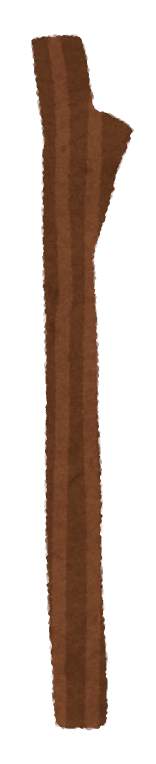
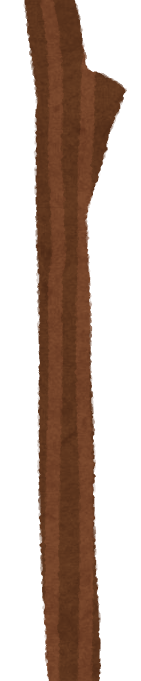
docs: add development documentation and lane graphics
- Add CLAUDE.md for Claude Code guidance
- Add AGENTS.md with project guidelines
- Update beetle positioning with track center system
- Add new lane background graphic (plant_eda1_lane.png)
- Adjust opacity and background references

🤖 Generated with Claude Code

Changed region(s): [[0.1702, 0.0, 0.9078, 1.0], [0.539, 0.185, 0.5674, 0.2159]]

diff --git a/index.html b/index.html
@@ -16,7 +16,7 @@
       --bg: #0f2218;
       --text: #f6fff2;
       --beetle-run-buffer: 96px;
-      --beetle-groundline: 0.36;
+      --beetle-track-center: 0.465;
     }
 
     body {
@@ -199,11 +199,11 @@
       content: "";
       position: absolute;
       inset: 0;
-      background-image: url("haikei/plant_eda1_horizontal.png");
+      background-image: url("haikei/plant_eda1_lane.png");
       background-repeat: no-repeat;
       background-size: 100% 100%;
       background-position: center;
-      opacity: 0.9;
+      opacity: 0.94;
       z-index: 0;
     }
 
@@ -334,7 +334,7 @@
       :root {
         --lane-height: 200px;
         --beetle-size: 56px;
-        --beetle-groundline: 0.45;
+        --beetle-track-center: 0.48;
       }
 
       .game {
@@ -439,7 +439,7 @@
         laneLabel: "FOREST",
         idleMeaning: "プログラミング用語が表示されます。",
         placeholder: "例: recursion / sandbox / websocket",
-        groundline: "0.36",
+        trackCenter: "0.465",
         words: [
           "algorithm",
           "binary",
@@ -536,7 +536,7 @@
         laneLabel: "WORKSHOP",
         idleMeaning: "UNIXコマンドが表示されます。",
         placeholder: "例: ls / grep / systemctl",
-        groundline: "0.36",
+        trackCenter: "0.465",
         words: [
           "ls",
           "cd",
@@ -687,7 +687,7 @@
       if (modeDescription) {
         modeDescription.textContent = `${currentPool.label} — ${currentPool.description}`;
       }
-      document.documentElement.style.setProperty("--beetle-groundline", currentPool.groundline || "0.42");
+      document.documentElement.style.setProperty("--beetle-track-center", currentPool.trackCenter || "0.465");
       typeInput.placeholder = currentPool.placeholder;
     }
 
@@ -828,12 +828,11 @@
 
       if (TRACKS === 1) {
         const rootStyle = getComputedStyle(document.documentElement);
-        const rawGroundline = rootStyle.getPropertyValue("--beetle-groundline").trim();
-        const groundRatio = rawGroundline ? Number.parseFloat(rawGroundline) : 0.46;
-        const safeGroundRatio = Number.isFinite(groundRatio) ? groundRatio : 0.46;
-        const surfaceY = laneHeight * safeGroundRatio;
-        const footAllowance = beetleHeight * 0.18;
-        return surfaceY - beetleHeight + footAllowance;
+        const rawCenter = rootStyle.getPropertyValue("--beetle-track-center").trim();
+        const parsedCenter = rawCenter ? Number.parseFloat(rawCenter) : 0.465;
+        const safeCenter = Number.isFinite(parsedCenter) ? Math.min(Math.max(parsedCenter, 0), 1) : 0.465;
+        const centerY = laneHeight * safeCenter;
+        return centerY - beetleHeight / 2;
       }
 
       const slotHeight = laneHeight / TRACKS;

diff --git a/CLAUDE.md b/CLAUDE.md
@@ -1,0 +1,87 @@
+# CLAUDE.md
+
+This file provides guidance to Claude Code (claude.ai/code) when working with code in this repository.
+
+## Project Overview
+
+**Kabutomushi-da (カブトムシ打)** is a browser-based typing game where players type programming terms or UNIX commands as beetles (kabutomushi) carry them across the screen. The entire application is self-contained in a single `index.html` file with inline CSS and JavaScript.
+
+## Development Commands
+
+```bash
+# Run locally - no build required
+# Option 1: Direct browser
+open index.html
+
+# Option 2: Python server (for browser security features)
+python3 -m http.server 8000
+# Then visit: http://localhost:8000/index.html
+
+# Interactive testing with Playwright
+npx playwright open index.html      # Manual testing
+npx playwright codegen index.html    # Generate test scripts
+```
+
+## Architecture & Core Concepts
+
+### Game State Management
+The game uses a simple state machine with these core variables:
+- `timeLeft`: 60-second countdown timer
+- `activeBeetles`: Map tracking beetles on screen (only one active at a time)
+- `currentBeetleId`: Enforces single-beetle constraint for focused gameplay
+- Two game modes: `programming` (42 terms) and `unix` (45 commands)
+
+### Key Architectural Patterns
+
+1. **Single-File Architecture**: All HTML, CSS, and JavaScript live in `index.html` for zero-dependency deployment
+2. **Event-Driven Design**: Game loop via `setInterval`, beetle lifecycle via `setTimeout`, CSS animations for movement
+3. **Word Pool System**: Each mode has words[] array and meanings{} object mapping terms to Japanese explanations
+4. **Visual Positioning**: Beetles follow `--beetle-track-center` CSS variable (currently 0.465) for vertical alignment with background trunk
+
+### Critical Functions & Flow
+
+```javascript
+// Core game loop
+startGame() → spawnBeetle() → handleTyping() → updateScore()/handleMiss()
+                    ↓
+            removeBeetle() → checkGameEnd()
+```
+
+### File Organization
+- `index.html`: Complete application (UI, styles, game logic)
+- `assets/`: 7 beetle sprites (kabutomushi.png + 6 variants)
+- `haikei/`: Background images (tree trunk with lane overlay)
+- `images/`: Screenshots and visual references
+- `AGENTS.md`: Development guidelines
+
+### Recent Changes Context
+- Positioning system refactored from `--beetle-groundline` to `--beetle-track-center`
+- Added mode selector for switching between programming terms and UNIX commands
+- Beetles now center vertically using `centerY - beetleHeight / 2` calculation
+- Background uses `plant_eda1_lane.png` for visual beetle pathway
+
+## Testing & Quality
+
+**Manual Testing Checklist:**
+1. Both game modes spawn correct word pools
+2. Beetle alignment with tree trunk visual
+3. Score calculation includes combo bonuses
+4. Miss counter stops game at 5
+5. Timer countdown and game over states
+6. Mobile responsive layout
+
+**Before Publishing:**
+- Test in both modes
+- Verify beetle path alignment
+- Capture screenshot for `images/` if UI changes
+- Maintain 2-space indentation
+- Keep CSS properties descriptive (`--beetle-track-center`)
+
+## Commit Style
+
+Follow existing pattern: `verb: description`
+- `feat:` new features
+- `style:` visual changes  
+- `fix:` bug fixes
+
+Example: `style: raise beetle flight path`

diff --git a/AGENTS.md b/AGENTS.md
@@ -1,0 +1,29 @@
+# Repository Guidelines
+
+## Project Structure & Module Organization
+- `index.html`: Single-page Kabutomushi typing game that renders UI, styles, assets, and gameplay logic inline.
+- `search.html`: Lightweight search helper page used for asset/browser experiments.
+- `assets/` & `haikei/`: Beetle sprites and background illustrations; keep filenames descriptive and reuse existing dimensions for smooth animation.
+- `images/`: Reference mockups and captured screenshots for visual QA; add new evidence here when updating layout.
+
+## Build, Test, and Development Commands
+- Run locally without tooling by opening `index.html` in a browser.
+- Launch a static server when testing browser security features: `python3 -m http.server 8000` (then visit `http://localhost:8000/index.html`).
+- Capture interactive regressions with Playwright: `npx playwright open index.html` for ad‑hoc manual flows or `npx playwright codegen index.html` to script repeatable checks.
+
+## Coding Style & Naming Conventions
+- HTML/CSS/JS all live in `index.html`; keep indentation at two spaces and favor multi-line CSS rules for readability.
+- Prefer descriptive CSS custom properties (e.g., `--beetle-groundline`) and update related JS helpers when new tokens are introduced.
+- JavaScript uses `const`/`let`, arrow functions only where brevity helps, and camelCase identifiers (`spawnBeetle`, `applyModeToUI`).
+- Asset filenames should remain lowercase with hyphens or underscores; reuse PNG format to match existing pipeline.
+
+## Testing Guidelines
+- No automated unit suite yet; rely on manual smoke tests in both “プログラミング用語” and “UNIXコマンド” modes.
+- Before publishing, validate beetle path alignment, word cycling, miss counter, and input focus by launching Playwright (`npx playwright open index.html`) and capturing a screenshot for the `images/` folder when UI changes.
+- Document any new manual test scripts or commands in this file to keep future agents aligned.
+
+## Commit & Pull Request Guidelines
+- Follow the existing history: concise, imperative subject lines under 60 characters (e.g., `Add mode selector with UNIX command pool`).
+- Group related HTML/CSS/JS edits together; avoid unrelated asset churn in the same commit.
+- For pull requests, include: summary of user-visible changes, manual test evidence (screenshot link or GIF from `images/`), and mention of any new commands.
+- Link to tracking issues when available and call out remaining QA or asset needs so future contributors can pick them up quickly.
